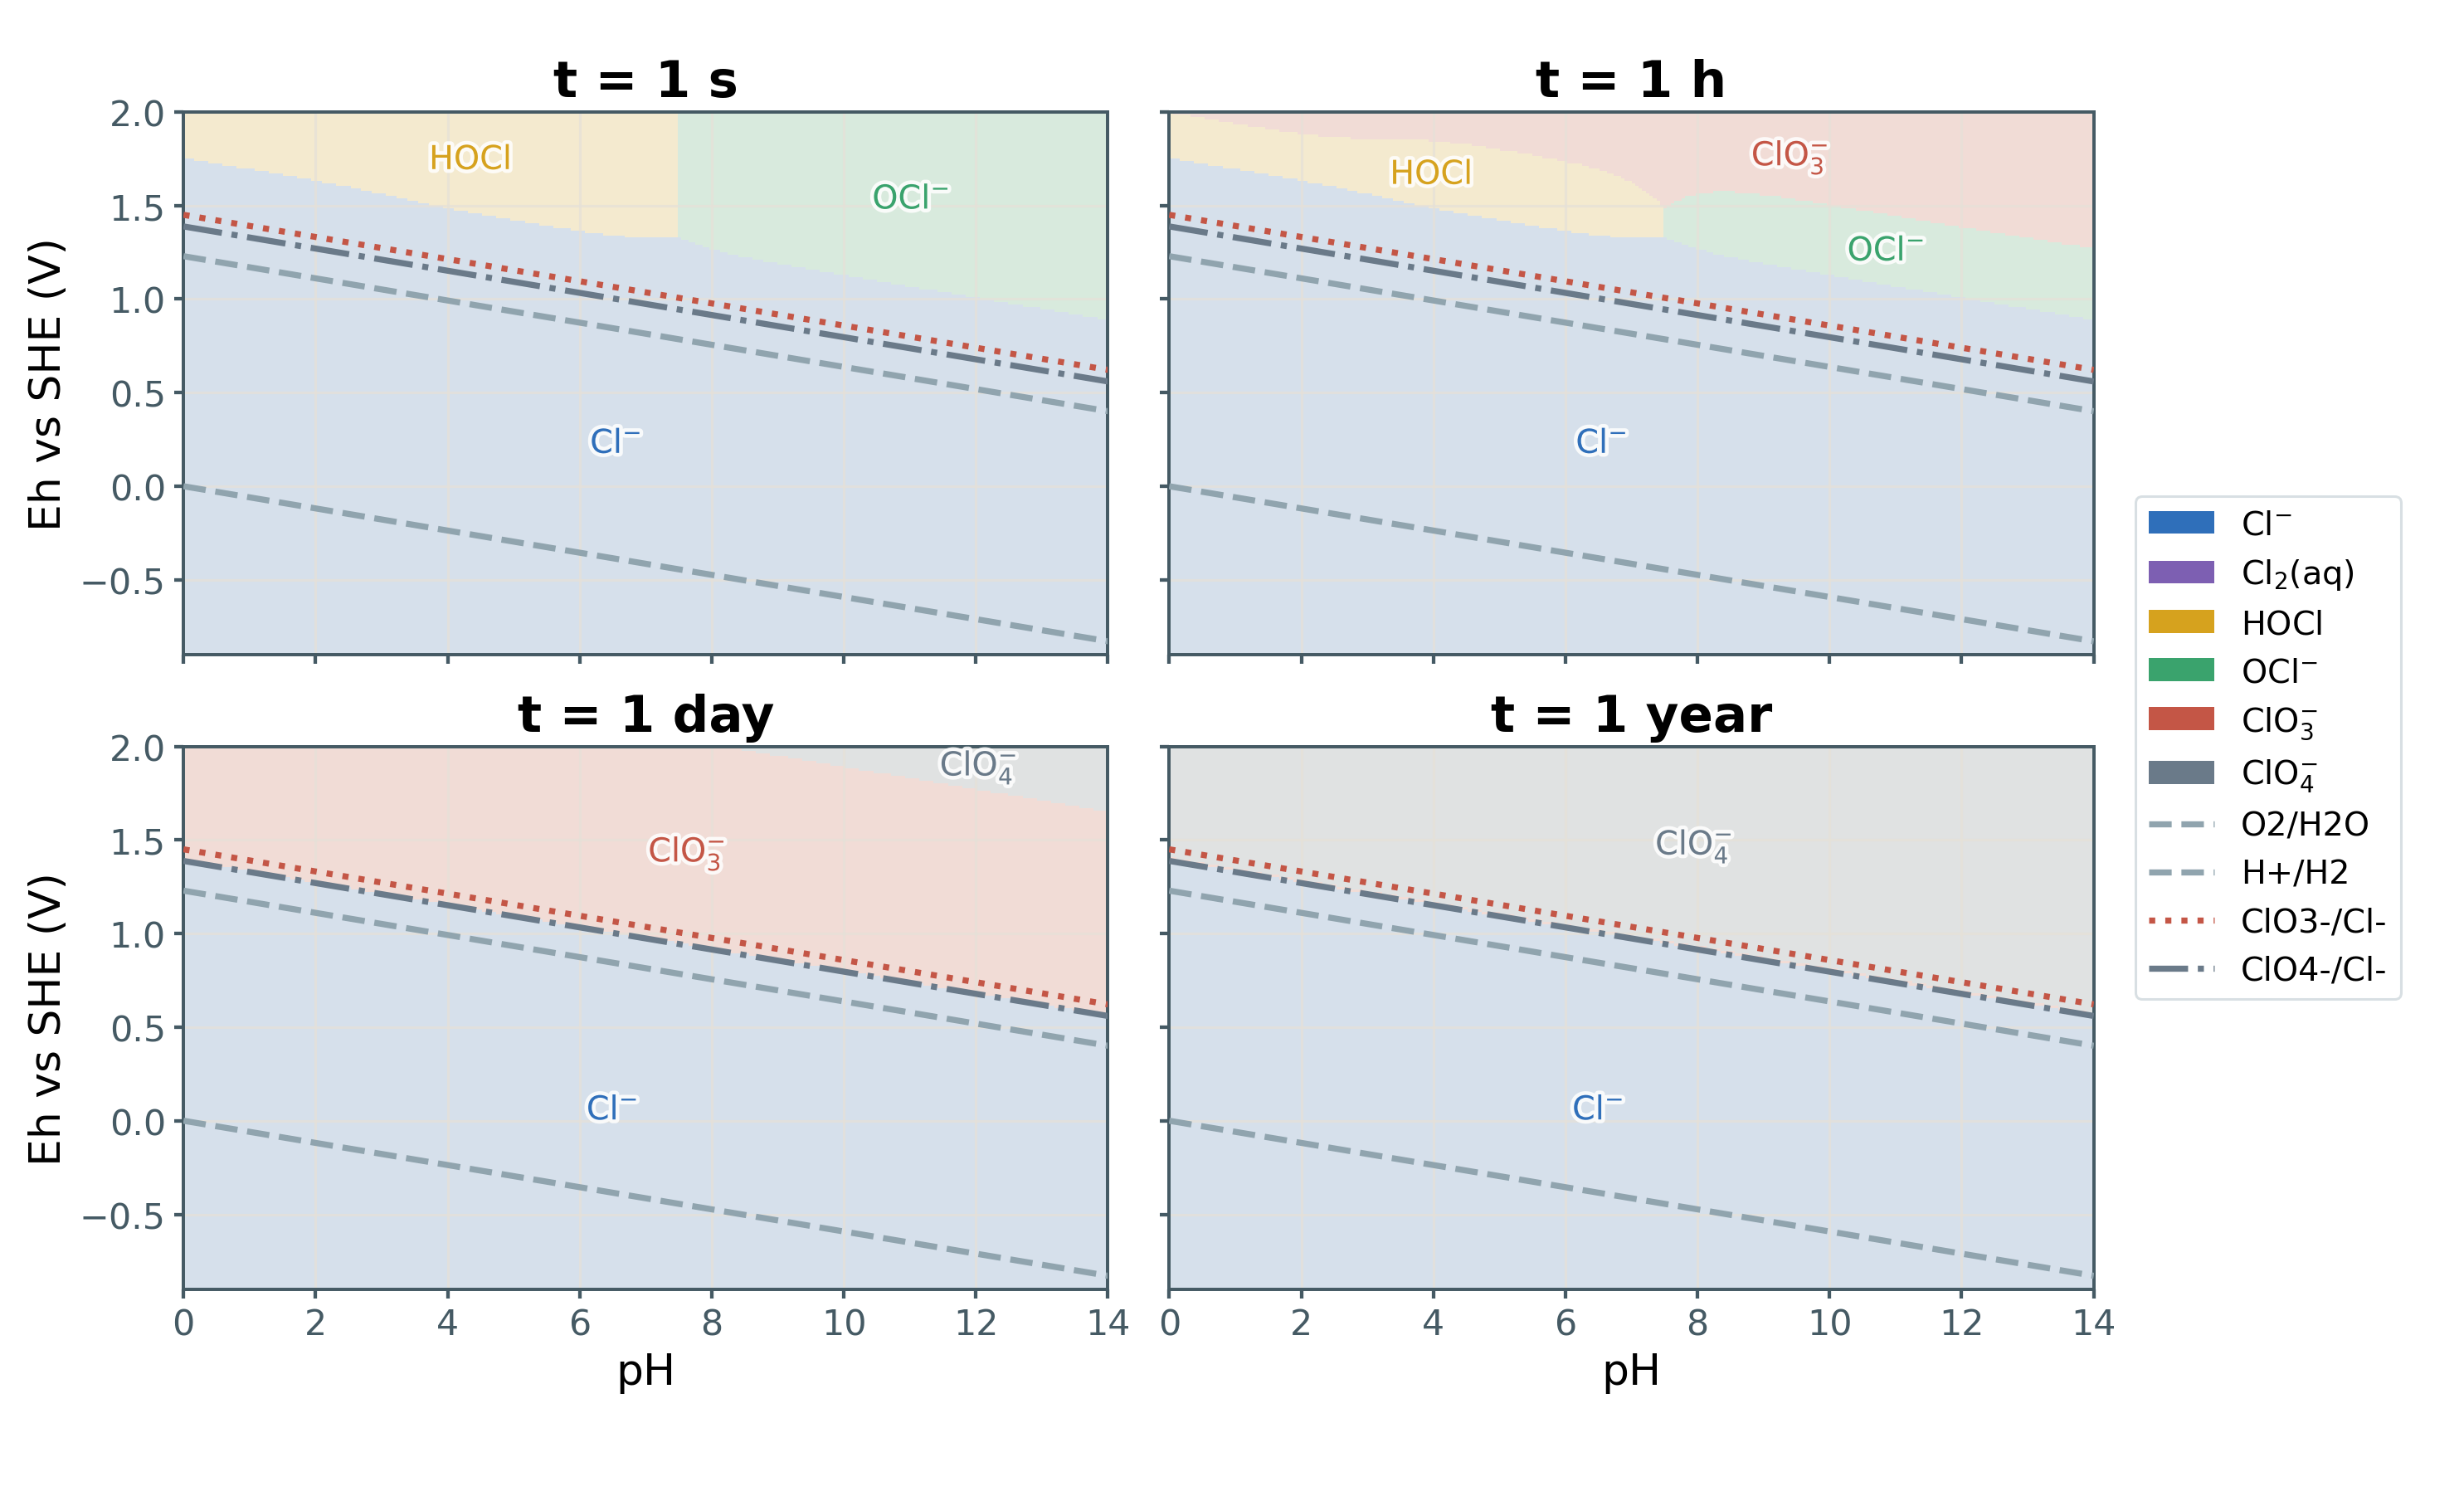
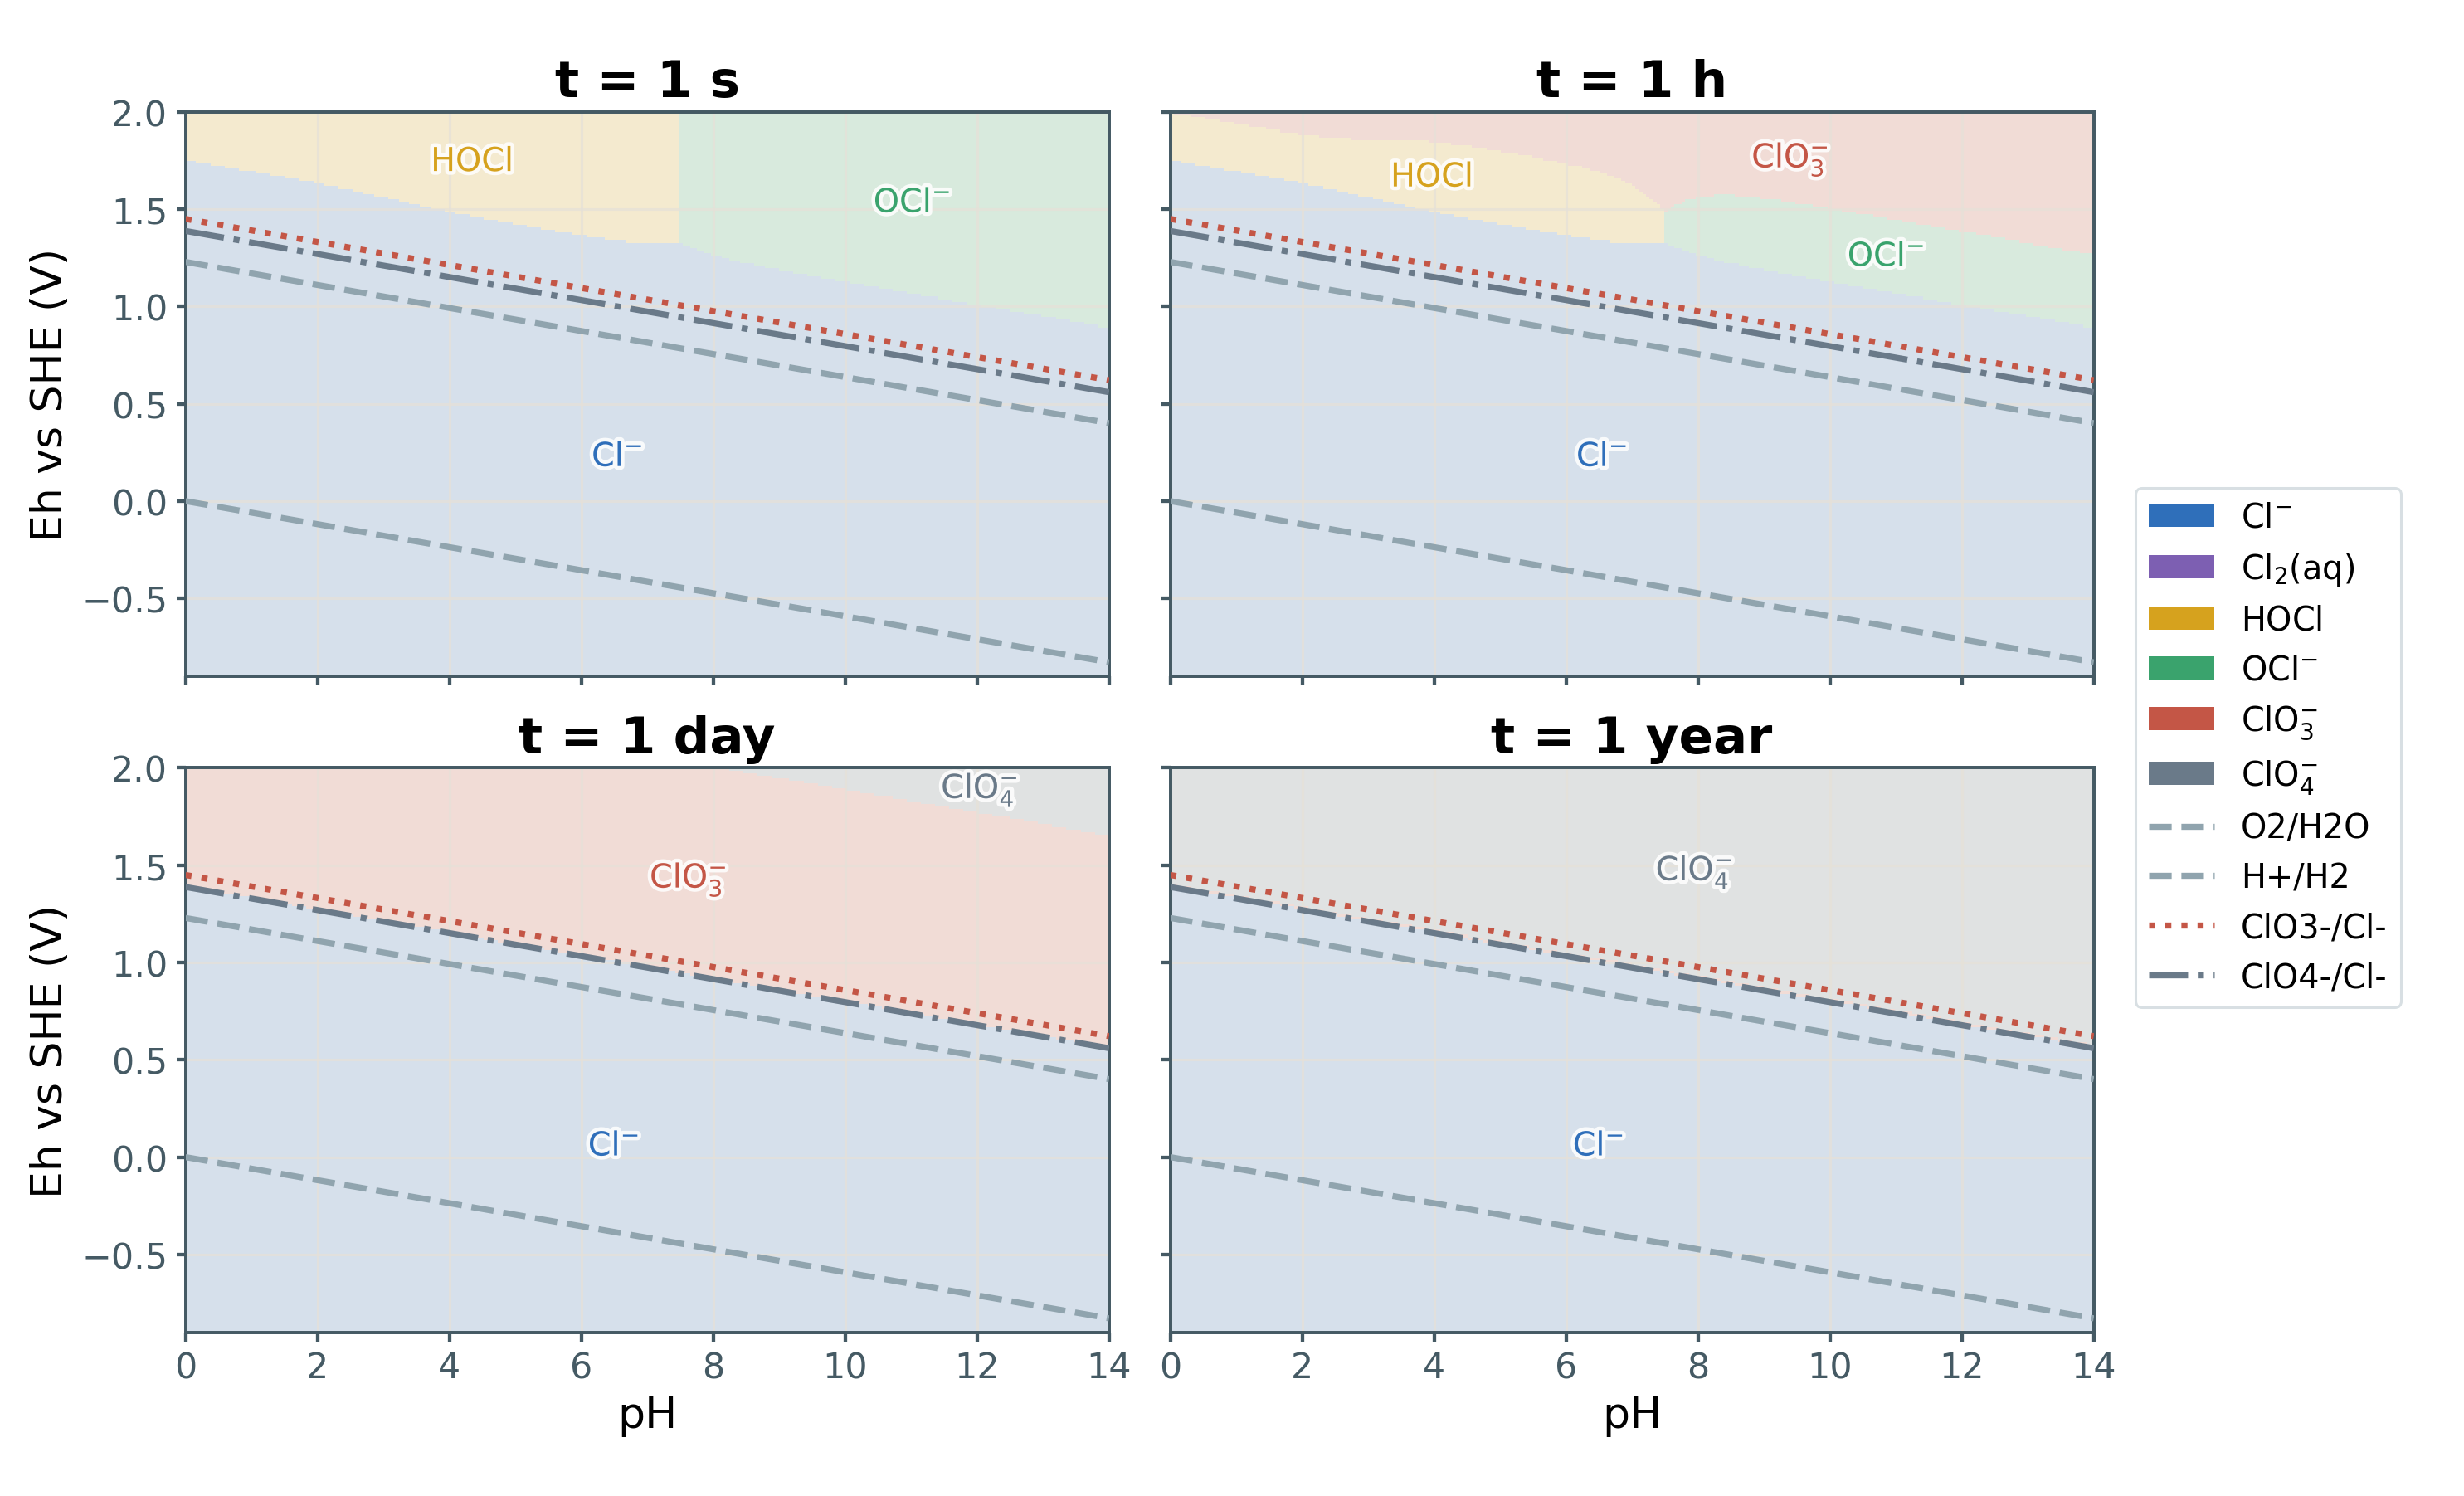
Update

diff --git a/components/PourbaixDiagram.vue b/components/PourbaixDiagram.vue
@@ -409,7 +409,7 @@ function formatConcentration(value) {
 function formatTemperature(value) {
   const numericValue = Number(value)
   if (!Number.isFinite(numericValue)) return '25 °C'
-  return `${numericValue.toFixed(0)} °C`
+  return `${Number.isInteger(numericValue) ? numericValue.toFixed(0) : numericValue.toFixed(1)} °C`
 }
 
 function setPlaybackValue(control, value) {
@@ -659,7 +659,7 @@ onBeforeUnmount(stopPlayback)
             class="play-toggle"
             :class="{ active: playingControl === 'temperatureC' }"
             :aria-label="playingControl === 'temperatureC' ? 'Stop temperature playback' : 'Play temperature range'"
-            :title="playingControl === 'temperatureC' ? 'Stop' : 'Play temperature from 0 °C to 50 °C'"
+            :title="playingControl === 'temperatureC' ? 'Stop' : 'Play temperature from 0 °C to 100 °C'"
             @click="togglePlayback('temperatureC')"
           >
             <svg v-if="playingControl === 'temperatureC'" viewBox="0 0 24 24" aria-hidden="true">

diff --git a/scripts/chlorine_pourbaix/config.py b/scripts/chlorine_pourbaix/config.py
@@ -19,7 +19,7 @@ DISPLAY_ARROW = "→"
 
 PH_VALUES = [round(i * 0.25, 2) for i in range(57)]
 LOG_C_VALUES = [round(-6 + i * 0.5, 2) for i in range(13)]
-TEMPERATURE_C_VALUES = [float(value) for value in range(0, 51, 5)]
+TEMPERATURE_C_VALUES = [index * 2.5 for index in range(41)]
 DEFAULT_TEMPERATURE_C = 25.0
 STATIC_TEMPERATURE_C = 25.0
 STATIC_LOG_C = -3.0

diff --git a/README.md b/README.md
@@ -10,7 +10,6 @@ npm run precompute
 python3 scripts/chlorine.py --interactive-json
 python3 scripts/chlorine.py --static
 python3 scripts/chlorine.py --kinetic
-ZOTERO_QUERY="chlorine pourbaix" npm run zotero:refs
 npm run dev -- --port 3030
 ```
 
@@ -20,6 +19,5 @@ The deck uses a hybrid workflow:
 - The interactive JSON covers total chlorine from `log10 C = -6..0` and temperature from `0..50 C` in `5 C` steps. The static PNG/PDF exports remain fixed at `25 C` and `1 mM`.
 - The kinetic export writes `assets/chlorine_kinetic_constrained.png`, `assets/chlorine_kinetic_constrained.pdf`, and `data/chlorine_kinetic_model.json`. This is a schematic kinetically constrained Eh-pH diagram, not a true equilibrium Pourbaix diagram.
 - Vue components handle sliders, toggles, hover states, and display interpolation.
-- Zotero references are exported from the local Zotero server at `127.0.0.1:23119` into `data/references.json`.
 
 The thermodynamic values in the half-reaction JSON are schematic defaults for presentation design. The kinetic rate parameters are also schematic teaching values. Replace both with database-derived constants or calibrated rate laws before using the diagrams as quantitative geochemical evidence.

diff --git a/slides.md b/slides.md
@@ -129,7 +129,7 @@ $$
 \text{dominant species}=\arg\max_i c_i(t;\mathrm{pH},E_h)
 $$
 
-Here, $\mathrm{Cl_2}$, $\mathrm{HOCl}$, and $\mathrm{OCl^-}$ are treated as fast-equilibrium species, while $\mathrm{ClO_3^-}$ and $\mathrm{ClO_4^-}$ accumulate through slow schematic kinetic steps.
+Here, $\mathrm{Cl_2}$, $\mathrm{HOCl}$ <small>($pK_a=7.5$)</small>, and $\mathrm{OCl^-}$ are treated as fast-equilibrium species, while $\mathrm{ClO_3^-}$ and $\mathrm{ClO_4^-}$ accumulate through slow schematic kinetic steps.
 
 ---
 class: kinetic-diagram-slide